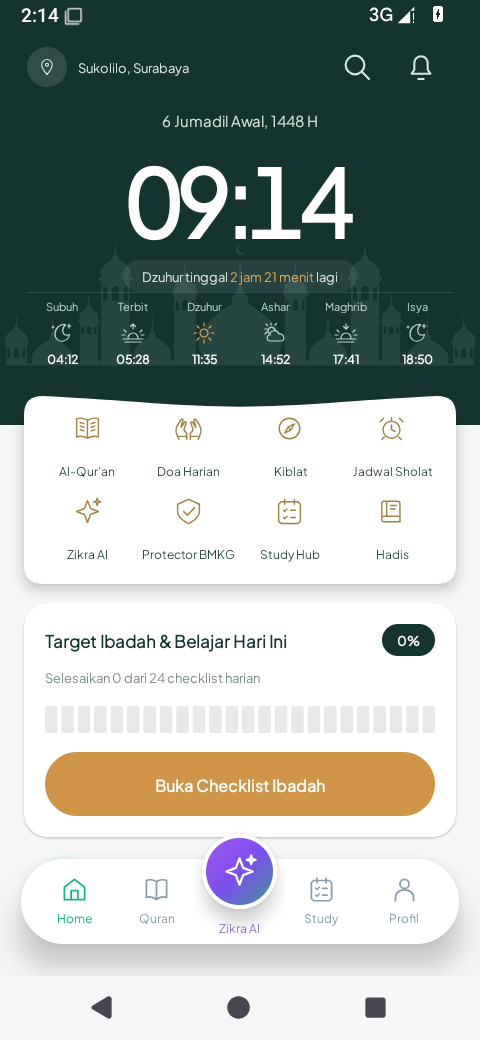
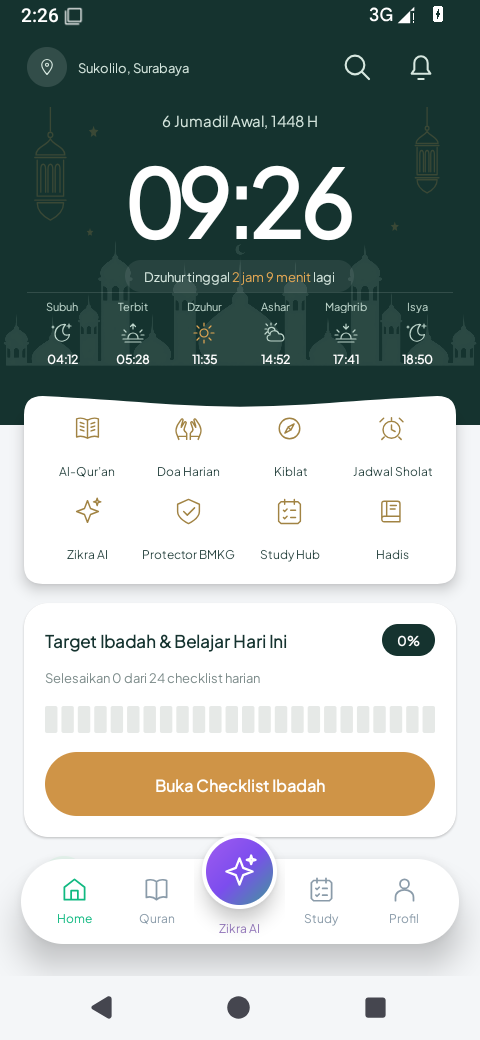
Add subtle lantern accents to the Home hero

diff --git a/android/README.md b/android/README.md
@@ -94,5 +94,11 @@ Lihat [VALIDATION.md](VALIDATION.md). Screenshot aplikasi native berada di folde
 
 - Pembungkus shortcut memakai `ui/CurvedShortcutLayout.java`, sebuah `LinearLayout` native dengan path putih yang turun 8dp di tengah tepi atas, mengikuti lengkungan pada referensi. Grid tetap didefinisikan dalam XML.
 - Kontur yang sama membatasi ripple anak. Outline elevasi memakai bentuk convex yang kompatibel dengan Android 8, sementara permukaan kartu mempertahankan lengkungan cekung.
-- Aset `res/drawable-nodpi/home_mosque_silhouette.png` dibuat dari acuan siluet yang diberikan pengguna, dengan latar dan bukaan jendela transparan serta bidang bawah yang dipangkas. Tint teal dan alpha 0,13 diterapkan melalui XML.
+- Aset `res/drawable-nodpi/home_mosque_silhouette.png` dibuat dari acuan siluet yang diberikan pengguna, dengan latar dan bukaan jendela transparan serta bidang bawah yang dipangkas. Tint teal dan alpha 0,15 diterapkan melalui XML.
 - Aset asli hasil pemrosesan disimpan tanpa modifikasi piksel tambahan. Penempatan memakai `fitCenter` agar proporsi kubah dan menara tetap terjaga.
+
+### Aksen lentera pada hero
+
+- `home_hero_ornaments.xml` menambahkan dua lentera outline dengan ukuran berbeda dan tiga bintang kecil di sisi kiri/kanan. Ornamen vector emas berada di bawah bar lokasi dan di luar area teks tanggal/jam.
+- Ornamen memakai alpha 0,18, tidak menerima klik atau fokus, dan tidak dibacakan sebagai elemen aksesibilitas. Layout dan alur navigasi tetap sama.
+- Siluet masjid tetap selebar hero dengan proporsi asli. Opasitasnya diperjelas menjadi 0,15 dan posisinya dinaikkan 4dp pada layar tinggi; posisi layar pendek dipertahankan agar tidak bertabrakan dengan jam.

diff --git a/android/VALIDATION.md b/android/VALIDATION.md
@@ -49,3 +49,11 @@ Screenshot yang sudah diperiksa: [Protector BMKG](validation/screens/ProtectorAc
 - Kontur atas turun 8dp di tengah, sementara ukuran grid dan elevasi dipertahankan. Screenshot Home standar dan 360dp diperbarui untuk menilai lengkungan, siluet, jarak strip dan keterlihatan CTA.
 - Validasi berfokus pada Home; data dan layanan fitur lain tidak diubah.
 - Smoke Home dan pemeriksaan jarak lulus pada lebar sekitar 411dp serta 360dp. Kedua screenshot diperiksa setelah render. Log: `validation/home-curved-build.txt`, `validation/home-curved-standard-tests.txt`, dan `validation/home-curved-small-tests.txt`.
+
+### Ornamen lentera dan penegasan siluet
+
+- Build debug, APK instrumentasi dan lint lulus setelah ornamen vector ditambahkan.
+- Dua lentera outline dan tiga bintang ditempatkan di sisi hero, di bawah bar lokasi; tanggal, jam, kontrol header serta tinggi konten dipertahankan. Ornamen tidak menerima klik/fokus dan dikecualikan dari aksesibilitas.
+- Siluet masjid menggunakan alpha 0,15. Pada varian layar tinggi, margin bawah naik 4dp untuk menaikkan gambar tanpa mengubah skalanya; varian layar pendek mempertahankan posisi sebelumnya.
+- Screenshot Home pada folder `validation/screens/` diperbarui untuk pemeriksaan keseimbangan dekorasi serta keterlihatan teks dan CTA.
+- Smoke Home serta pemeriksaan jarak strip/kartu lulus pada sekitar 411dp dan 360dp. Screenshot kedua ukuran diperiksa; tanda tangan APK juga diverifikasi. Log: `validation/home-lantern-build.txt`, `validation/home-lantern-standard-tests.txt`, `validation/home-lantern-small-tests.txt`.

diff --git a/README.md b/README.md
@@ -14,7 +14,7 @@ Source aplikasi native **Java + layout XML** tersedia di [`android/`](./android/
 - [Hasil pengujian](./android/VALIDATION.md)
 - [Screenshot aplikasi](./android/validation/screens/)
 
-Implementasi awal dipindahkan dari `Arkanzahir/prototype_zikra` pada commit `606dfb634db7839860ade25873c22e14ebd08c87`. Home diperbarui dengan header ringkas, siluet masjid transparan, kartu shortcut dengan tepi atas melengkung, delapan shortcut (Hadis menggantikan Infaq), dan kartu target harian. Tanggal Hijriah membuka Kalender. Penyempurnaan halaman lain masih bertahap; Quran saat ini memuat empat surah, AI memakai respons lokal, dan notifikasi pengingat sholat belum dijadwalkan.
+Implementasi awal dipindahkan dari `Arkanzahir/prototype_zikra` pada commit `606dfb634db7839860ade25873c22e14ebd08c87`. Home diperbarui dengan header ringkas, aksen lentera yang samar, siluet masjid transparan, kartu shortcut dengan tepi atas melengkung, delapan shortcut (Hadis menggantikan Infaq), dan kartu target harian. Tanggal Hijriah membuka Kalender. Penyempurnaan halaman lain masih bertahap; Quran saat ini memuat empat surah, AI memakai respons lokal, dan notifikasi pengingat sholat belum dijadwalkan.
 
 Daftar fitur berikut merupakan target produk dan belum seluruhnya tersedia dalam aplikasi.
 
